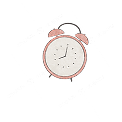
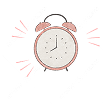
Initial commit

diff --git a/index.html b/index.html
@@ -19,6 +19,7 @@
       <img src="img/image1.png" class="image1" alt="фон большой" />
       <img src="img/image2.png" class="image2" alt="внутренняя арка" />
       <img src="img/play-button.png" class="music" alt="">
+
       <div class="title-block">
         <div class="asul">Асылым</div>
         <div class="Tysay">ТҰСАУ КЕСЕР</div>
@@ -31,18 +32,19 @@
       <img class="image5" src="img/image.png" alt="" />
     </div>
 
+    <img src="img/image15.png" class="ornament-left" alt="Орнамент">
+    <img src="img/image16.png" class="ornament-right" alt="Орнамент">
 
     <div class="text">
-      <p class="text1">Құрметті ағайын-туыс, бауырлар, құда-жекжат, нағашы-жиен, билер, достар, әріптестер!</p>
+      
+      <p class="text1">Құрметті ағайын-туыс, бауырлар, құда-жекжат, нағашы-жиен, бөлелер, дос-жарандар, әріптестер!</p>
       <p class="text2">
         Сіз(дер)ді қызымыз<br />
-        <strong><span class="highlight-name">Асылымның</span></strong><br />
-        Тұсау кесер тойына арналған салтанатты ақ дастарханымыздың қадірлі қонағы болуға шақырамыз!
+        <span class="highlight-name">Асылымның</span><br />
+        Тұсау кесер тойына арналған салтанатты ақ дастарқанымыздың қадірлі қонағы болуға шақырамыз!
       </p>
     </div>
-
-  
-
+     
     <!-- Календарь -->
     <div class="calendar-block">
       <div class="calendar-header">
@@ -76,7 +78,8 @@
         <img src="img/chase.png" alt="Будильник" class="calendar-img" />
       </div>
     </div>
-   
+    <img src="img/flowers.png" class="flowers-branch" alt="Цветы">
+
     <!-- Адрес и информация -->
     <div class="location-section">
       <div class="location-header">
@@ -96,9 +99,12 @@
         <p class="label">Той иелері:</p>
         <p>Сұлухан,<br />Нұртілеу-Жаннұр</p>
       </div>
-
+      <img src="img/image20.png" class="flowers" alt="Цветы">
       <div class="final-message">
         Қуанышымыздың<br />қадірлі қонағы болыңыздар!
+      </div>
+      <div class="image11">
+        <img src="img/image11.png" class="image111" alt="">
       </div>
     </div>
 
@@ -107,16 +113,21 @@
     const playButton = document.querySelector('.music');
     const audio = document.getElementById('bg-music');
   
+    let isPlaying = false;
+  
     playButton.addEventListener('click', () => {
-      if (audio.paused) {
-        audio.play();
-        playButton.style.opacity = '0.5'; // например, чтобы показать, что включено
-      } else {
+      if (isPlaying) {
         audio.pause();
-        playButton.style.opacity = '1';
+        playButton.src = 'img/play-button.png'; // вернуть плей
+      } else {
+        audio.play();
+        playButton.src = 'img/pause-button.png'; // заменить на стоп
       }
+  
+      isPlaying = !isPlaying;
     });
   </script>
+  
   
 </body>
 </html>

diff --git a/style.css b/style.css
@@ -46,6 +46,7 @@ body {
   width: 100%;
   margin: 0 auto;
   box-sizing: border-box;
+  position: relative;
 }
 
 .img-top{
@@ -85,18 +86,6 @@ body {
   left: 0;
   z-index: 5;
 }
-
-.music {
-  position: absolute;
-  cursor: pointer;
-  width: 84px;
-  height: 84px;
-  top: 20%;
-  left: 39%;
-  z-index: 6;
-}
-
-
 
 .child-photo {
   position: absolute;
@@ -157,7 +146,8 @@ body {
 }
 
 .highlight-name {
-  font-size: 28px; 
+  font-size: 28px;
+  font-weight: bolder;
 }
 
 .calendar-block {
@@ -188,7 +178,7 @@ body {
 .calendar {
   width: 100%;
   border-collapse: collapse;
-  margin: 20px 0;
+  margin: 20px 20px;
 }
 
 .calendar th {
@@ -248,13 +238,13 @@ body {
 }
 
 .calendar-img {
-  width: 120px;
-  height: 120px;
+  width: 160px;
+  height: 160px;
   height: auto;
+  transform: rotate(20deg); 
 }
 
 .location-section {
-  
   text-align: center;
   max-width: 360px;
   margin: 40px auto;
@@ -312,3 +302,57 @@ body {
 }
 
 
+.image11 {
+  position: relative;
+}
+
+.image111 {
+  position: absolute;
+  top: 0;
+  left: 0;
+  width: 100%;
+}
+
+.ornament-left {
+  position: absolute;
+  top: 32%;
+  right: 0;
+  z-index: 10;
+  opacity: 0.4; 
+}
+
+.ornament-right {
+  position: absolute;
+  top: 32%;
+  left: 0;
+  z-index: 10;
+  opacity: 0.4; 
+}
+
+
+.music {
+  position: absolute;
+  width: 60px;
+  height: 60px;
+  top: 195px;
+  left: 180px;
+  z-index: 7;
+}
+
+.flowers-branch {
+  position: absolute;
+  top: 2023px; /* отрегулируй по месту */
+  transform: translateX(-50%) rotate(-10deg); /* центрировать и повернуть */
+  width: 180px; /* или сколько нужно */
+  right: -93px;
+  z-index: 8;
+}
+
+.flowers {
+  position: absolute;
+  top: 2696px;
+  left: 0px;
+  width: 220px;
+  height: 220px;
+  z-index: 8;
+}
